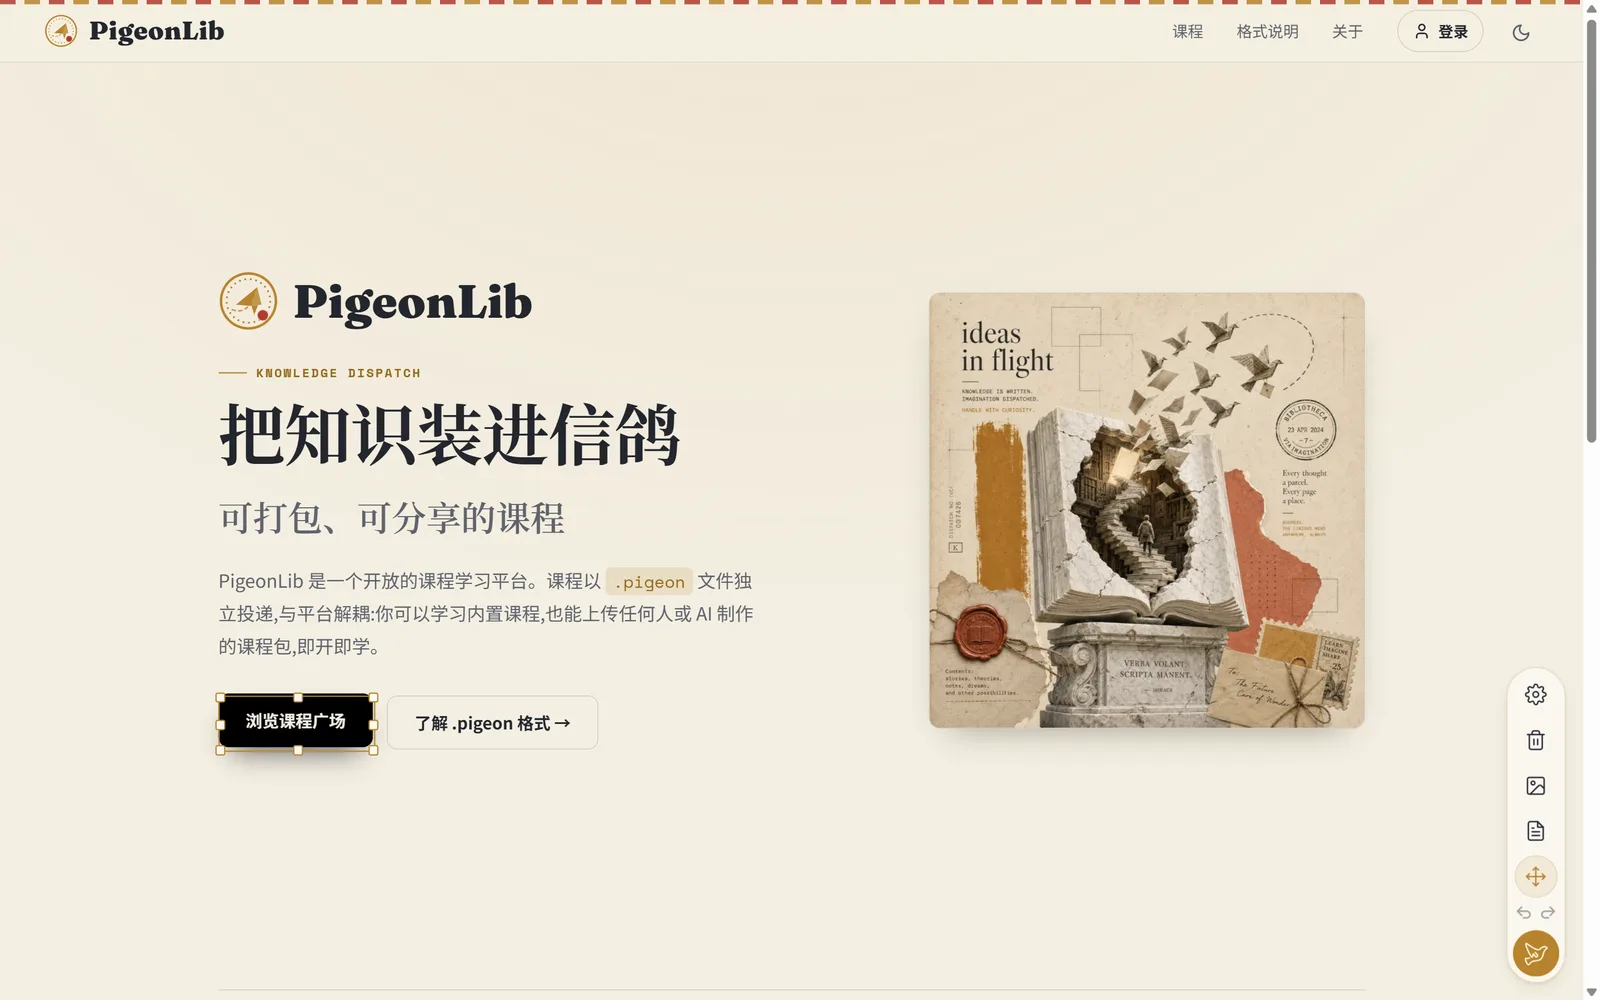
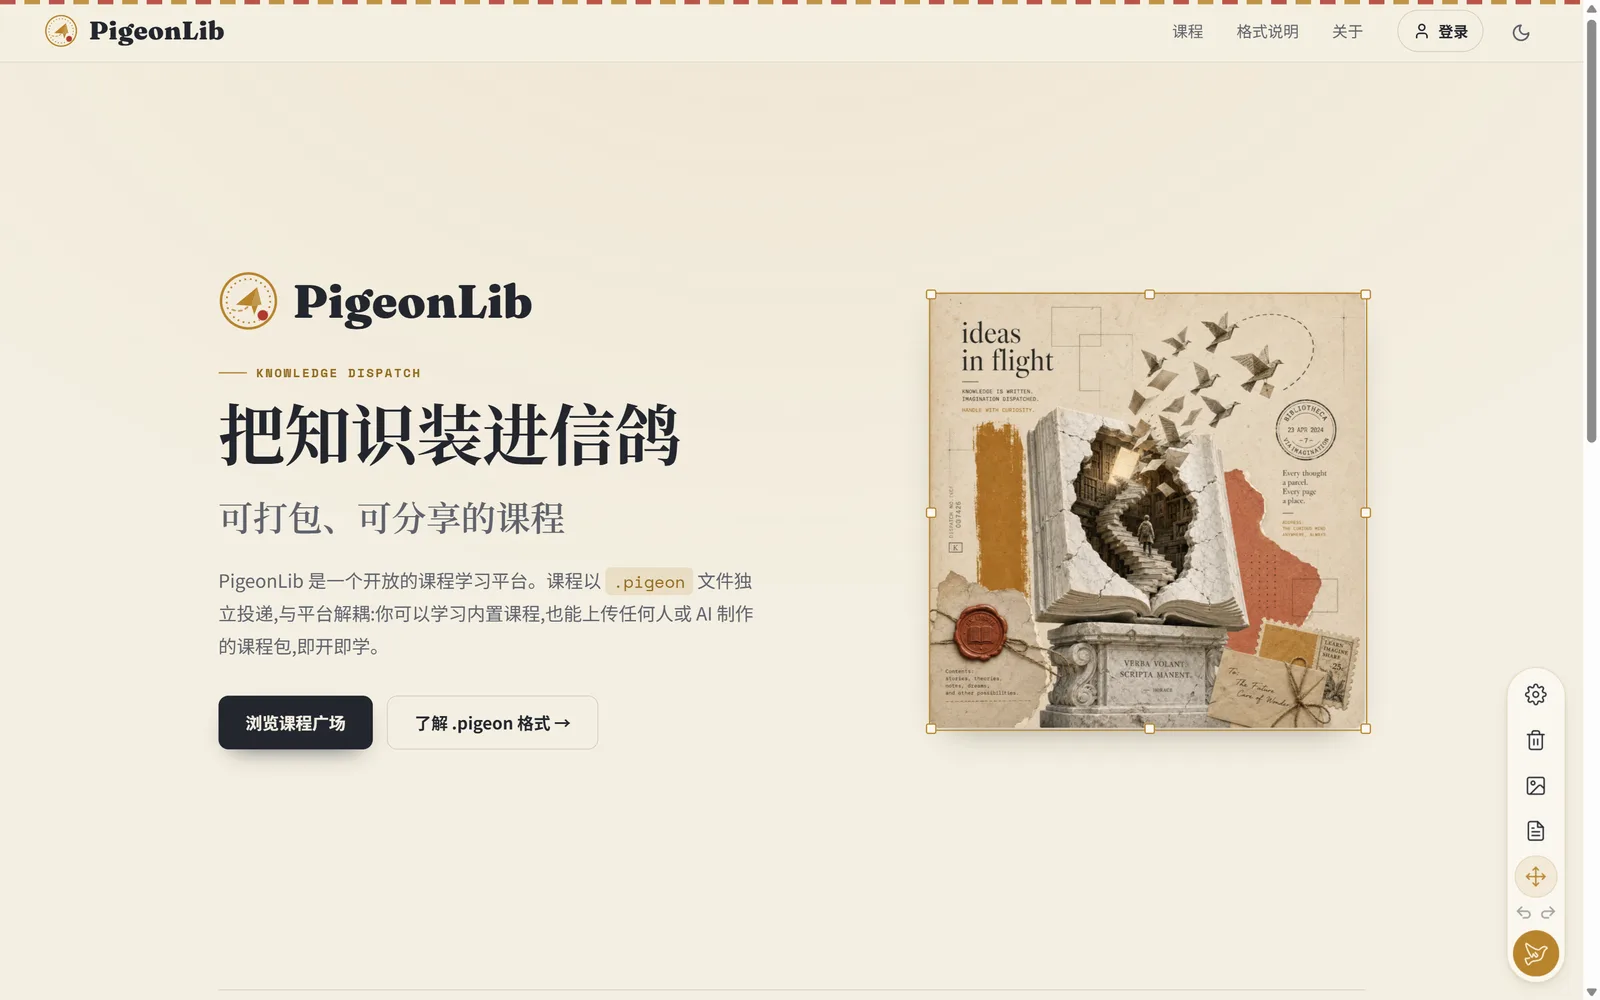
docs: Why 段重写去 AI 味 + 移动配图换真移动（框图一体下移）
- Why PigeonDeck / 为什么用：三段排比口号改为三句陈述（审美判断→结构化→Agent 不偏离），中文保留 Agent 不翻译
- 移动配图：从「选中出句柄」改为「选中 hero-media 容器真正下移」，连框带图一体位移
- 配文同步更新（en/zh）

diff --git a/README.md b/README.md
@@ -40,13 +40,7 @@ No accounts, no servers, no telemetry. Everything lives in the current tab sessi
 
 ## Why PigeonDeck
 
-Design review and AI coding live in two different places. You *see* what's wrong in the browser, but your coding agent needs it as *words* — precise selectors, before/after values, and layout intent that isn't just "move it 12px left."
-
-PigeonDeck closes that gap. You point at the page; it writes the brief.
-
-- **Visual in, executable out.** Point-and-click on the real page produces a structured, deduplicated task list — not a vague paragraph.
-- **Layout-aware by design.** The output explicitly tells the agent *not* to hardcode `top`/`left`, and to prefer `flex` / `grid` / `gap` / `margin` / `order`. Visual coordinates are treated as hints, never as CSS.
-- **One element, one instruction.** Annotation + style change + move on the same element are merged into a single operation, so the agent never gets contradictory edits.
+Every visual judgment you make about a page deserves to be expressed as structured information — not a vague sentence. PigeonDeck turns your annotations, edits, and moves into selectors, before-and-after values, and layout relationships. Your intent reaches the agent intact.
 
 ---
 
@@ -76,7 +70,7 @@ PigeonDeck closes that gap. You point at the page; it writes the brief.
   </tr>
   <tr>
     <td width="50%"><img src="assets/screenshots/live/en/05-advanced-styles.webp" alt="Advanced styles"><br><sub><b>Edit styles.</b> Typography, size, appearance, and a debug readout.</sub></td>
-    <td width="50%"><img src="assets/screenshots/live/en/06-move-selbox.webp" alt="Move mode"><br><sub><b>Move &amp; snap.</b> Grab a component with eight resize handles.</sub></td>
+    <td width="50%"><img src="assets/screenshots/live/en/06-move-selbox.webp" alt="Move mode"><br><sub><b>Move &amp; snap.</b> Drag a component to a new position with alignment guides.</sub></td>
   </tr>
   <tr>
     <td width="50%"><img src="assets/screenshots/live/en/03-pins-card.webp" alt="Pins and card"><br><sub><b>Pins &amp; cards.</b> Numbered pins; open a card to review each note.</sub></td>

diff --git a/README.zh-CN.md b/README.zh-CN.md
@@ -40,13 +40,7 @@
 
 ## 为什么用 PigeonDeck
 
-设计验收和 AI 编码分处两个世界。问题你在浏览器里一眼**看**得到，但编码代理需要的是**文字**——精确的选择器、前后值，以及"往左挪 12px"之外的真实布局意图。
-
-PigeonDeck 补上这道断层：你在页面上指，它替你写清楚。
-
-- **可视化进，可执行出。** 在真实页面点选，产出结构化、去重后的任务清单，而不是一段含糊的话。
-- **天生懂布局。** 输出会明确要求代理**不要**硬编码 `top`/`left`，优先用 `flex` / `grid` / `gap` / `margin` / `order`；视觉坐标只当线索，绝不当 CSS。
-- **同一元素，一条指令。** 同一元素上的批注 + 样式修改 + 移动会合并成一条操作，代理不会收到互相矛盾的编辑。
+你对页面的每一处审美判断，都应当被结构化地精确表达——而不是退化成一句模糊的描述。PigeonDeck 把你在页面上做的批注、修改和移动，转化为选择器、前后值与布局关系。Agent 照此执行，不再偏离你的想法。
 
 ---
 
@@ -76,7 +70,7 @@ PigeonDeck 补上这道断层：你在页面上指，它替你写清楚。
   </tr>
   <tr>
     <td width="50%"><img src="assets/screenshots/live/zh/05-advanced-styles.webp" alt="高级样式"><br><sub><b>改样式。</b>排版、尺寸、外观，外加调试信息面板。</sub></td>
-    <td width="50%"><img src="assets/screenshots/live/zh/06-move-selbox.webp" alt="移动模式"><br><sub><b>移动与吸附。</b>选中组件，带八向缩放句柄。</sub></td>
+    <td width="50%"><img src="assets/screenshots/live/zh/06-move-selbox.webp" alt="移动模式"><br><sub><b>移动与吸附。</b>选中组件，拖到新位置——带实时对齐参考线。</sub></td>
   </tr>
   <tr>
     <td width="50%"><img src="assets/screenshots/live/zh/03-pins-card.webp" alt="位号与卡片"><br><sub><b>位号与卡片。</b>金色位号；点开卡片逐条查看批注。</sub></td>